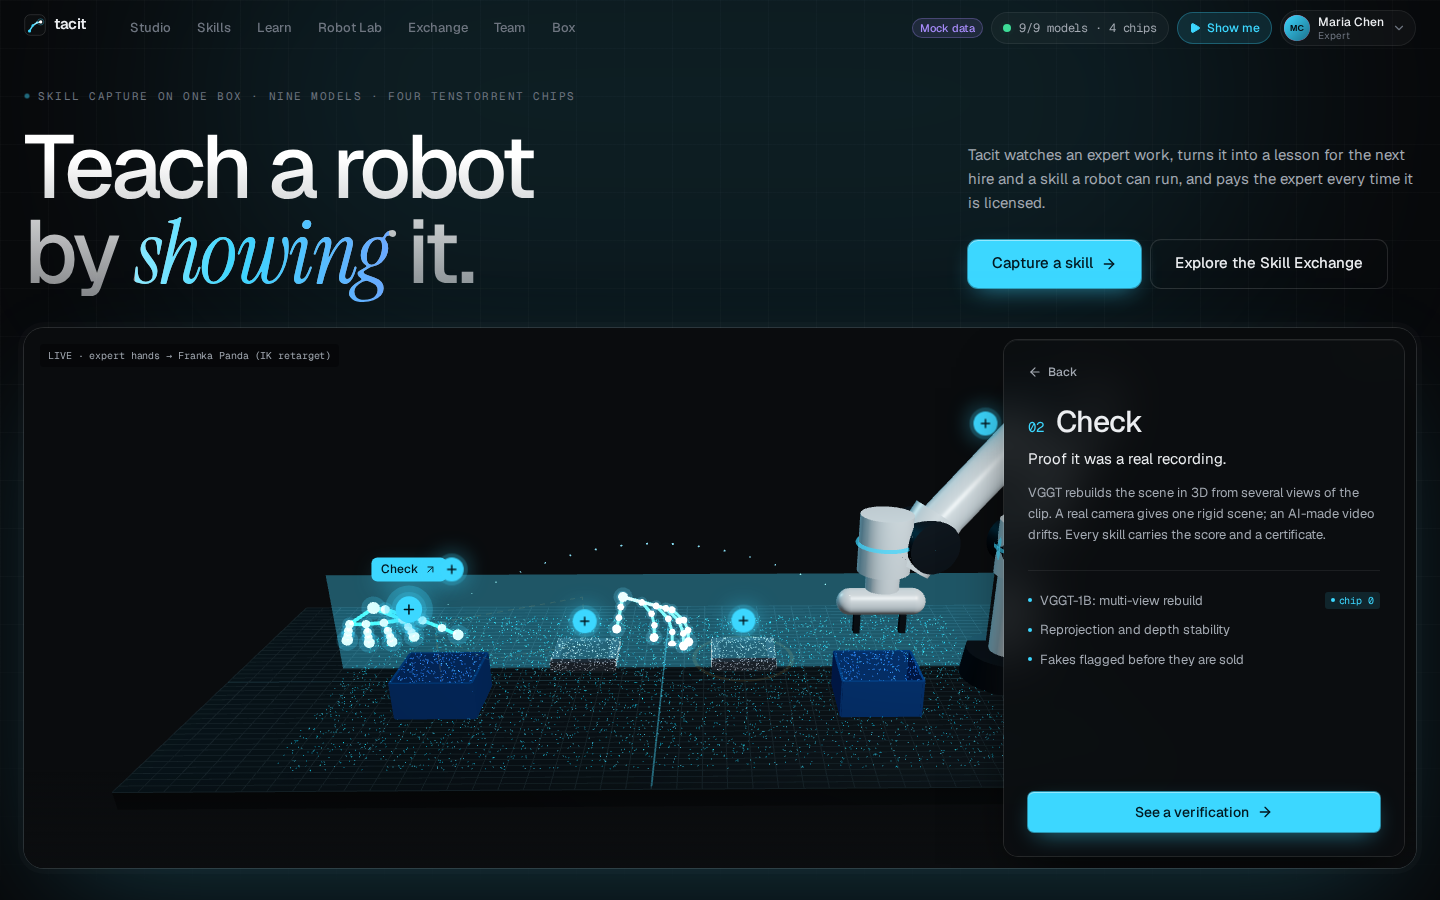
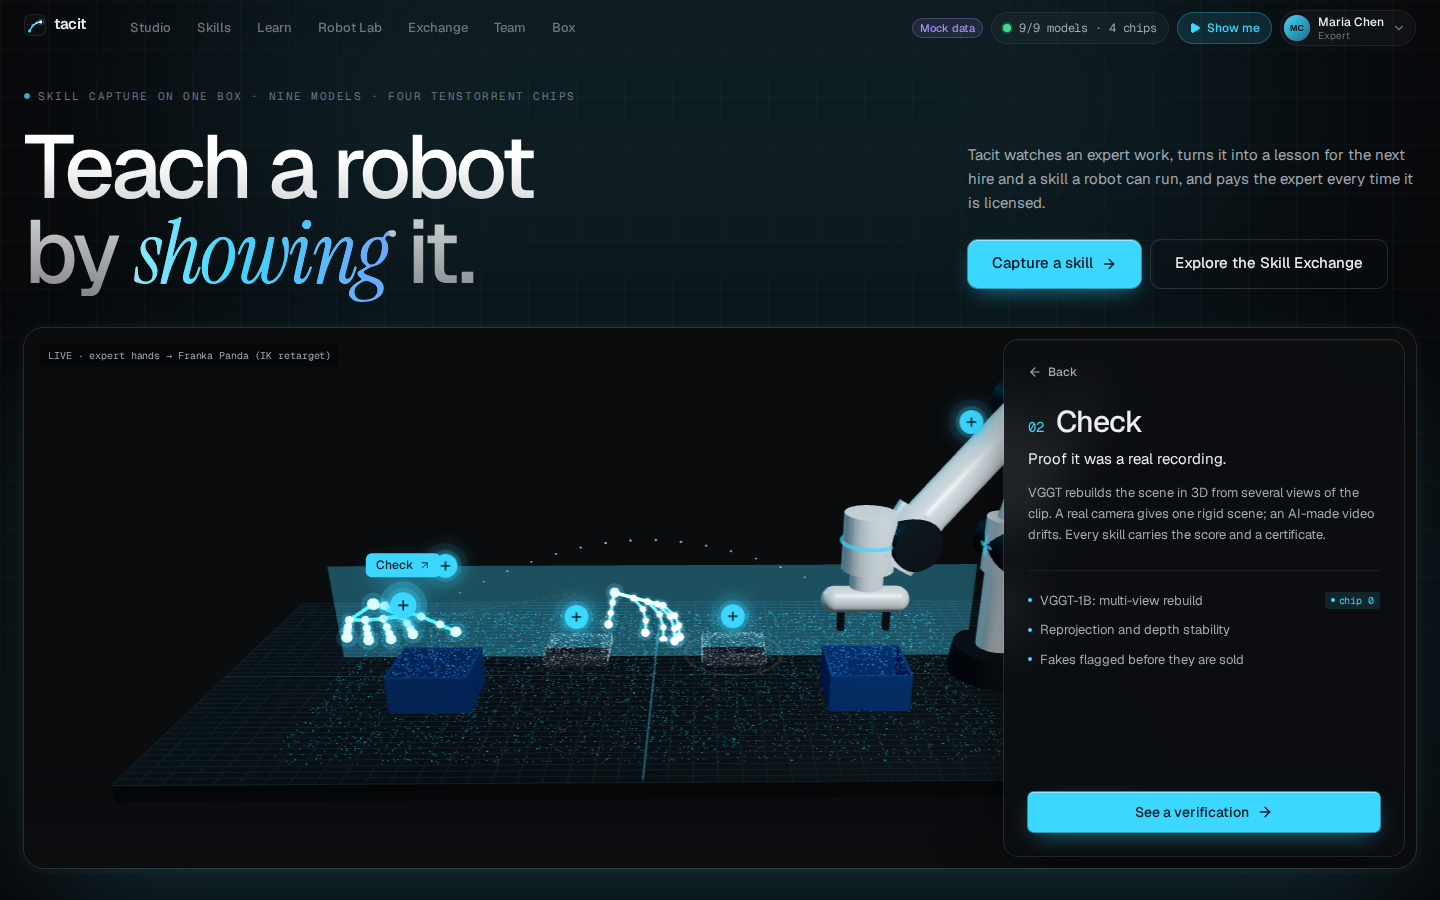
Refresh mock evidence and status; name VGGT's real metrics in the hero

Changed region(s): [[0.2188, 0.4356, 0.7188, 0.8711]]

diff --git a/web/src/pages/landing/Hero.tsx b/web/src/pages/landing/Hero.tsx
@@ -21,7 +21,7 @@ export const STEPS: Record<Key, { n: string; title: string; line: string; body: 
   check: {
     n: '02', title: 'Check', line: 'Proof it was a real recording.', to: 'verify', cta: 'See a verification',
     body: 'VGGT rebuilds the scene in 3D from several views of the clip. A real camera gives one rigid scene; an AI-made video drifts. Every skill carries the score and a certificate.',
-    points: [['VGGT-1B: multi-view rebuild', 0], ['Reprojection and depth stability', null], ['Fakes flagged before they are sold', null]],
+    points: [['VGGT-1B: multi-view rebuild', 0], ['Reprojection error and camera drift', null], ['Fakes flagged before they are sold', null]],
   },
   teach: {
     n: '03', title: 'Teach', line: 'A lesson in the expert\'s own words.', to: 'learn', cta: 'Open the lesson',

diff --git a/.orchestration/cards/web/status.md b/.orchestration/cards/web/status.md
@@ -1,44 +1,37 @@
 # Status: web
 
-State: running
-Updated: 2026-10-27T20:05:00+00:00
+State: running (merge gate met except the final real-mode evidence run, scheduled in the lead's freeze)
+Updated: 2026-10-27T20:58:00+00:00
 
-## Scope (after the lead's split)
-Mine: landing, design system and shared components (`components/ui`, `components/layout`, styles,
-`App.tsx`, `lib/api` core, `lib/mock` core), Studio, Skills, SkillDetail (overview, twin, SOP,
-verify, answer), Box, Tour, NotFound. Learn/Lesson/Team → web-learn; Exchange/Listing/Sell/
-Library/Earnings + `components/exchange` → web-exchange; RobotIndex/RobotLab +
-`three/FrankaArm.tsx` + `lib/mock/robot.ts` → web-robot.
+## Scope
+Landing, design system and shared components, app shell, Studio, Skills, Skill detail
+(overview, twin, SOP, verify, answer, audit), Box, tour, 404. Learn/Team → web-learn; Exchange
+pages → web-exchange; Robot Lab → web-robot.
 
-## Works (mock mode, screenshots checked)
-- Design system: tokens (`src/styles/index.css`), primitives (`components/ui`: Button, Badge,
-  Panel, Spotlight, Tabs, Segmented, Stat, Meter, ScoreRing, Sparkline, Ticker, Timeline, Stepper,
-  Toast, Dialog, Switch, CheckRow, Slider, TextInput, Select, Avatar, Kbd, ServedByList,
-  BackendBadge, ChipTag, VerifiedBadge), app shell (top bar, persona switcher sending
-  `X-Tacit-User`, guided tour "Show me", page transitions, reduced motion).
-- Landing: 3D hero (ghost hands + Franka mirroring them via IK) in the Veyra hotspot pattern with
-  detail panels, Watch→Earn beam pipeline, live box stats, use-case bento, moat over the mesh
-  video, Exchange preview, CTA over the rings video, footer.
-- Box: board map of 4 chips, per-model p50 sparklines, DRAM/L1 meters.
-- Skills list; Skill detail with Overview (video + overlays + steps), Twin (3D, synced clock,
-  slow-mo, loop step, orbit), SOP (markdown + export), Verify (score, certificate, real vs AI-made
-  point clouds), Answer questions (voice → STT → saved).
-- Mock layer (`VITE_TACIT_MOCK=1`) for every route/socket in API.md; real build strips it.
+## Works (verified on the real backend via :5710 and in mock mode)
+- Landing: 3D hero (ghost hands + Franka via IK) with hotspot detail panels, Watch→Earn beam
+  pipeline, live box stats, use-case bento, moat over mesh video, Exchange preview, CTA, footer.
+- Studio (F1): webcam, sample streamed live, or upload/offline; overlays; per-model latency HUD
+  (HaMeR per hand); coach with captions and coach_audio; hands-free or push-to-talk answers;
+  typed answers; Stop → processing view (recovers via the skill record if `saved` is slow);
+  optional skill name (?title=).
+- Skill: overview with overlays and steps; 3D twin from twin.camera (objects tracked across
+  frames); SOP export; Verify vs the AI-made sample (/api/samples/{id}/verify); answers via
+  /answer; Audit a run (use case 5).
+- Box (F7): chip board map, p50 history, memory, speech_queue. Tour and landing links use live ids.
+- typecheck, lint (0 warnings), build: pass; mock code absent from the real build.
+- Playwright: mock 13/13; real stack 12 passed, 1 skipped (20:50, backend steady).
+- Evidence: .orchestration/evidence/web/{mock,real}/ (real set being refreshed in the freeze).
 
-## Now
-Merged main (backend live on 8710). Switching my pages to the real API, then Studio (F1 live
-capture with overlays, coach with `coach_audio`, VAD answers, processing view), then the
-Playwright smoke suite and evidence screenshots.
+## Next
+Final real-mode screenshot run inside the lead's no-deploy freeze, then State: review.
 
-## Decisions
-- MotionSites/21st tools were only in the lead's session; adopted the lead's design sources from
-  `docs/design/` (Veyra hotspot hero, Cybersecurity beam pipeline, liquid-glass CTA, AnimatedBeam
-  and Spotlight from 21st). Backgrounds transcoded to `web/public/bg/` (not `/media`, which the
-  backend owns).
-- Versions pinned for React 18: r3f 8 / drei 9, three 0.172, TS 5.9, ESLint 9, Vite 7.
-- Accent font: Instrument Serif italic for two headline words only (hero, closing CTA).
-- `three/FrankaArm.tsx` is now web-robot's; the landing hero uses it (props `q`, `glow`). Please
-  keep that API or tell me.
+## Notes
+- web-exchange's session ended before I could reply. Their three points were all handled:
+  the tour uses live listing ids (ac6a9e9), TwinViewer keys and tracks objects per slot (fbcc9ed),
+  and port 5712 is free (my mock server is on 5719).
+- Backend issues reported to the lead: restarts drop captures and audit jobs; PATCH during
+  processing is overwritten; stop waited behind coach TTS (fixed ~20:37).
 
 ## Blockers
 None.
